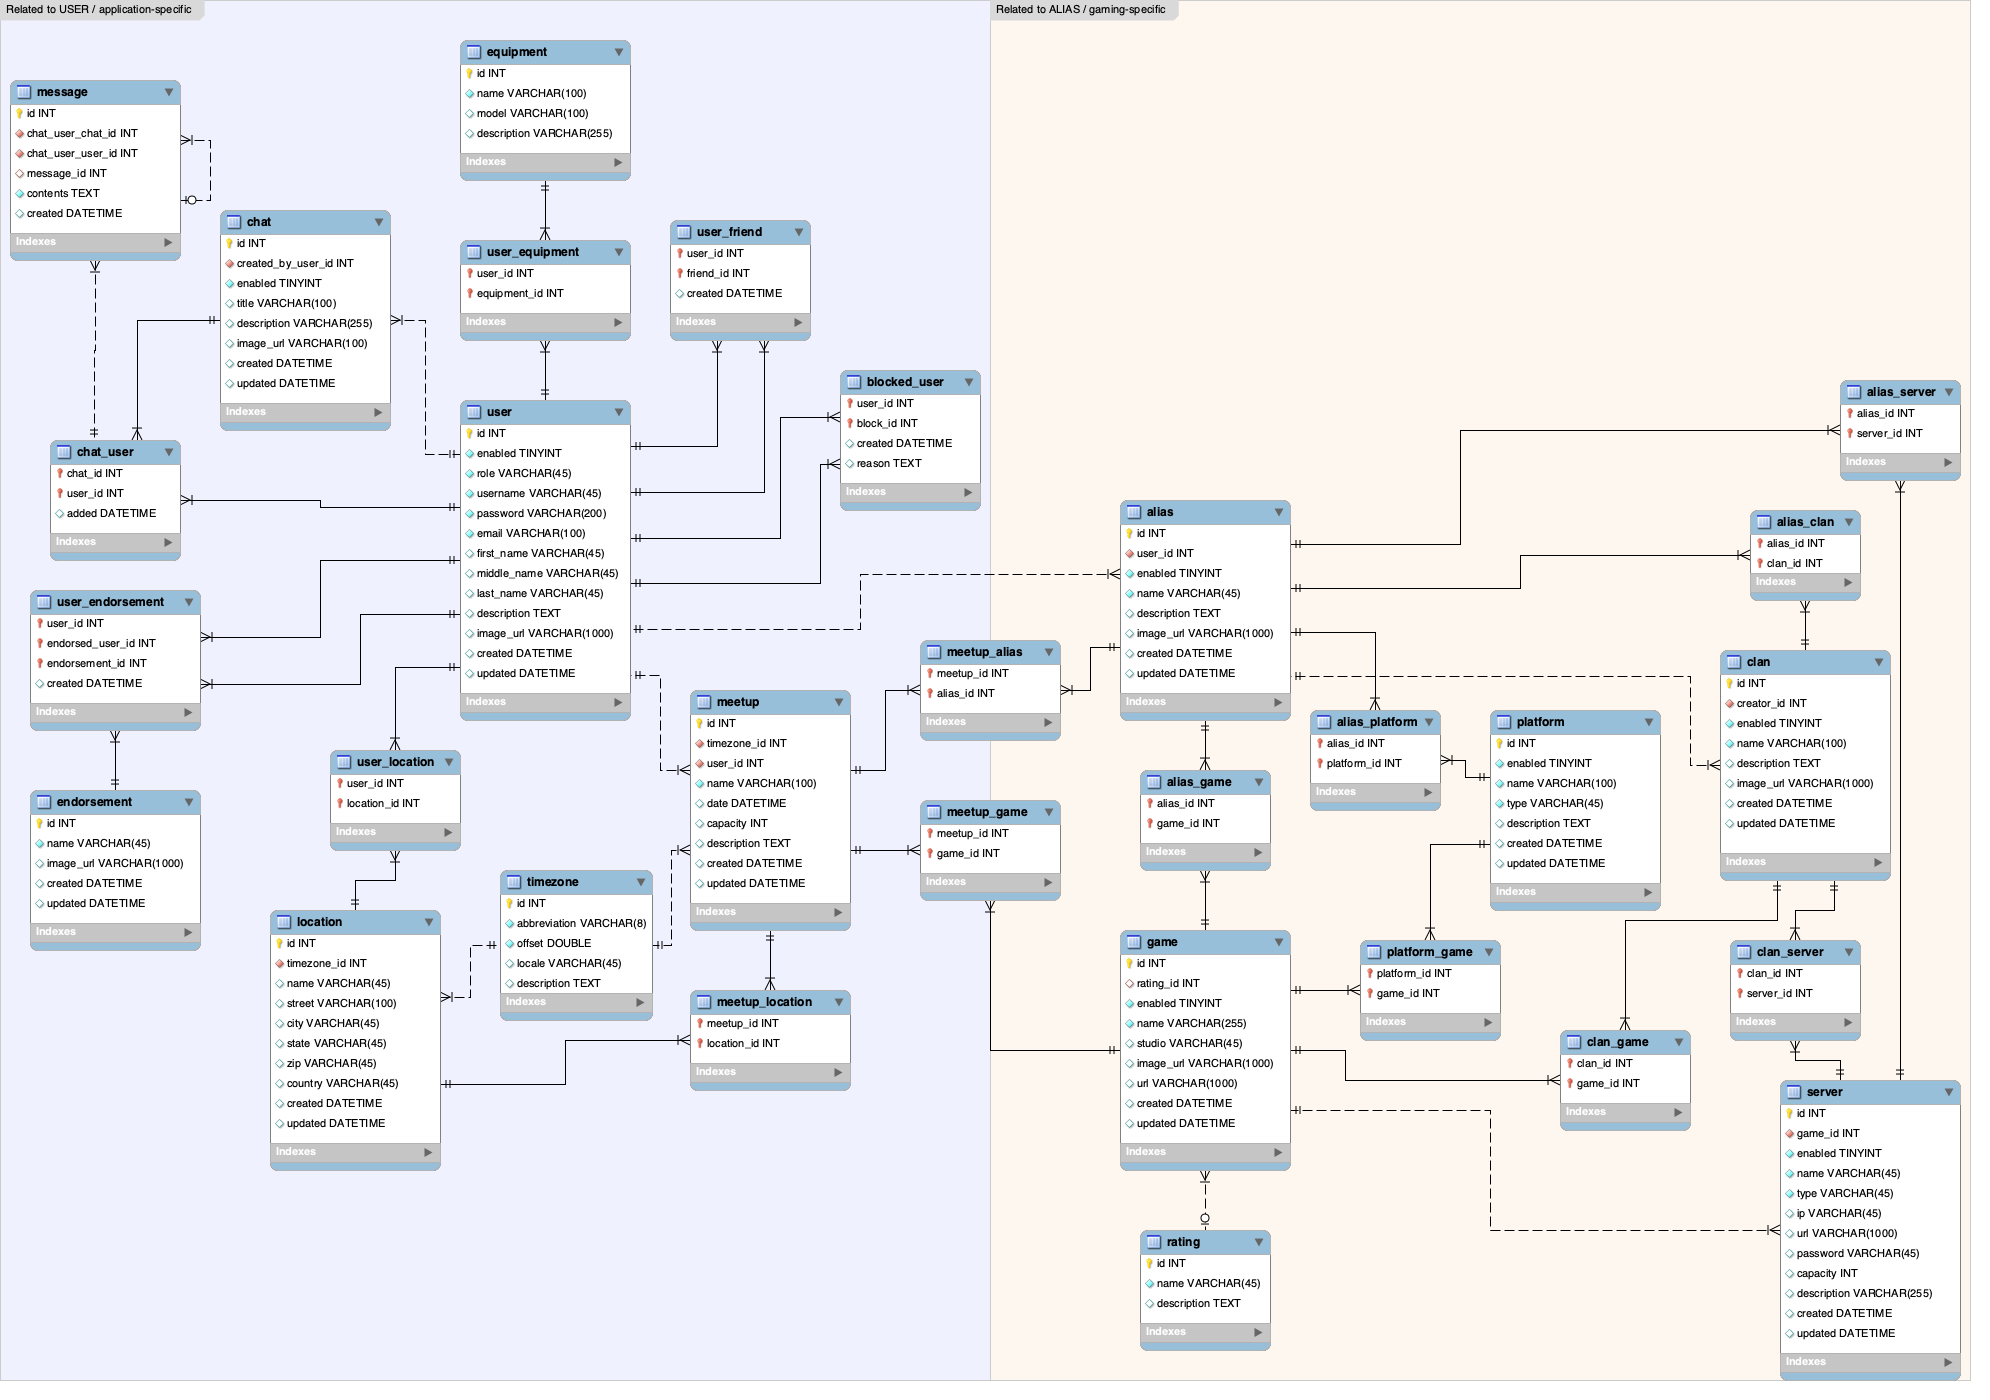
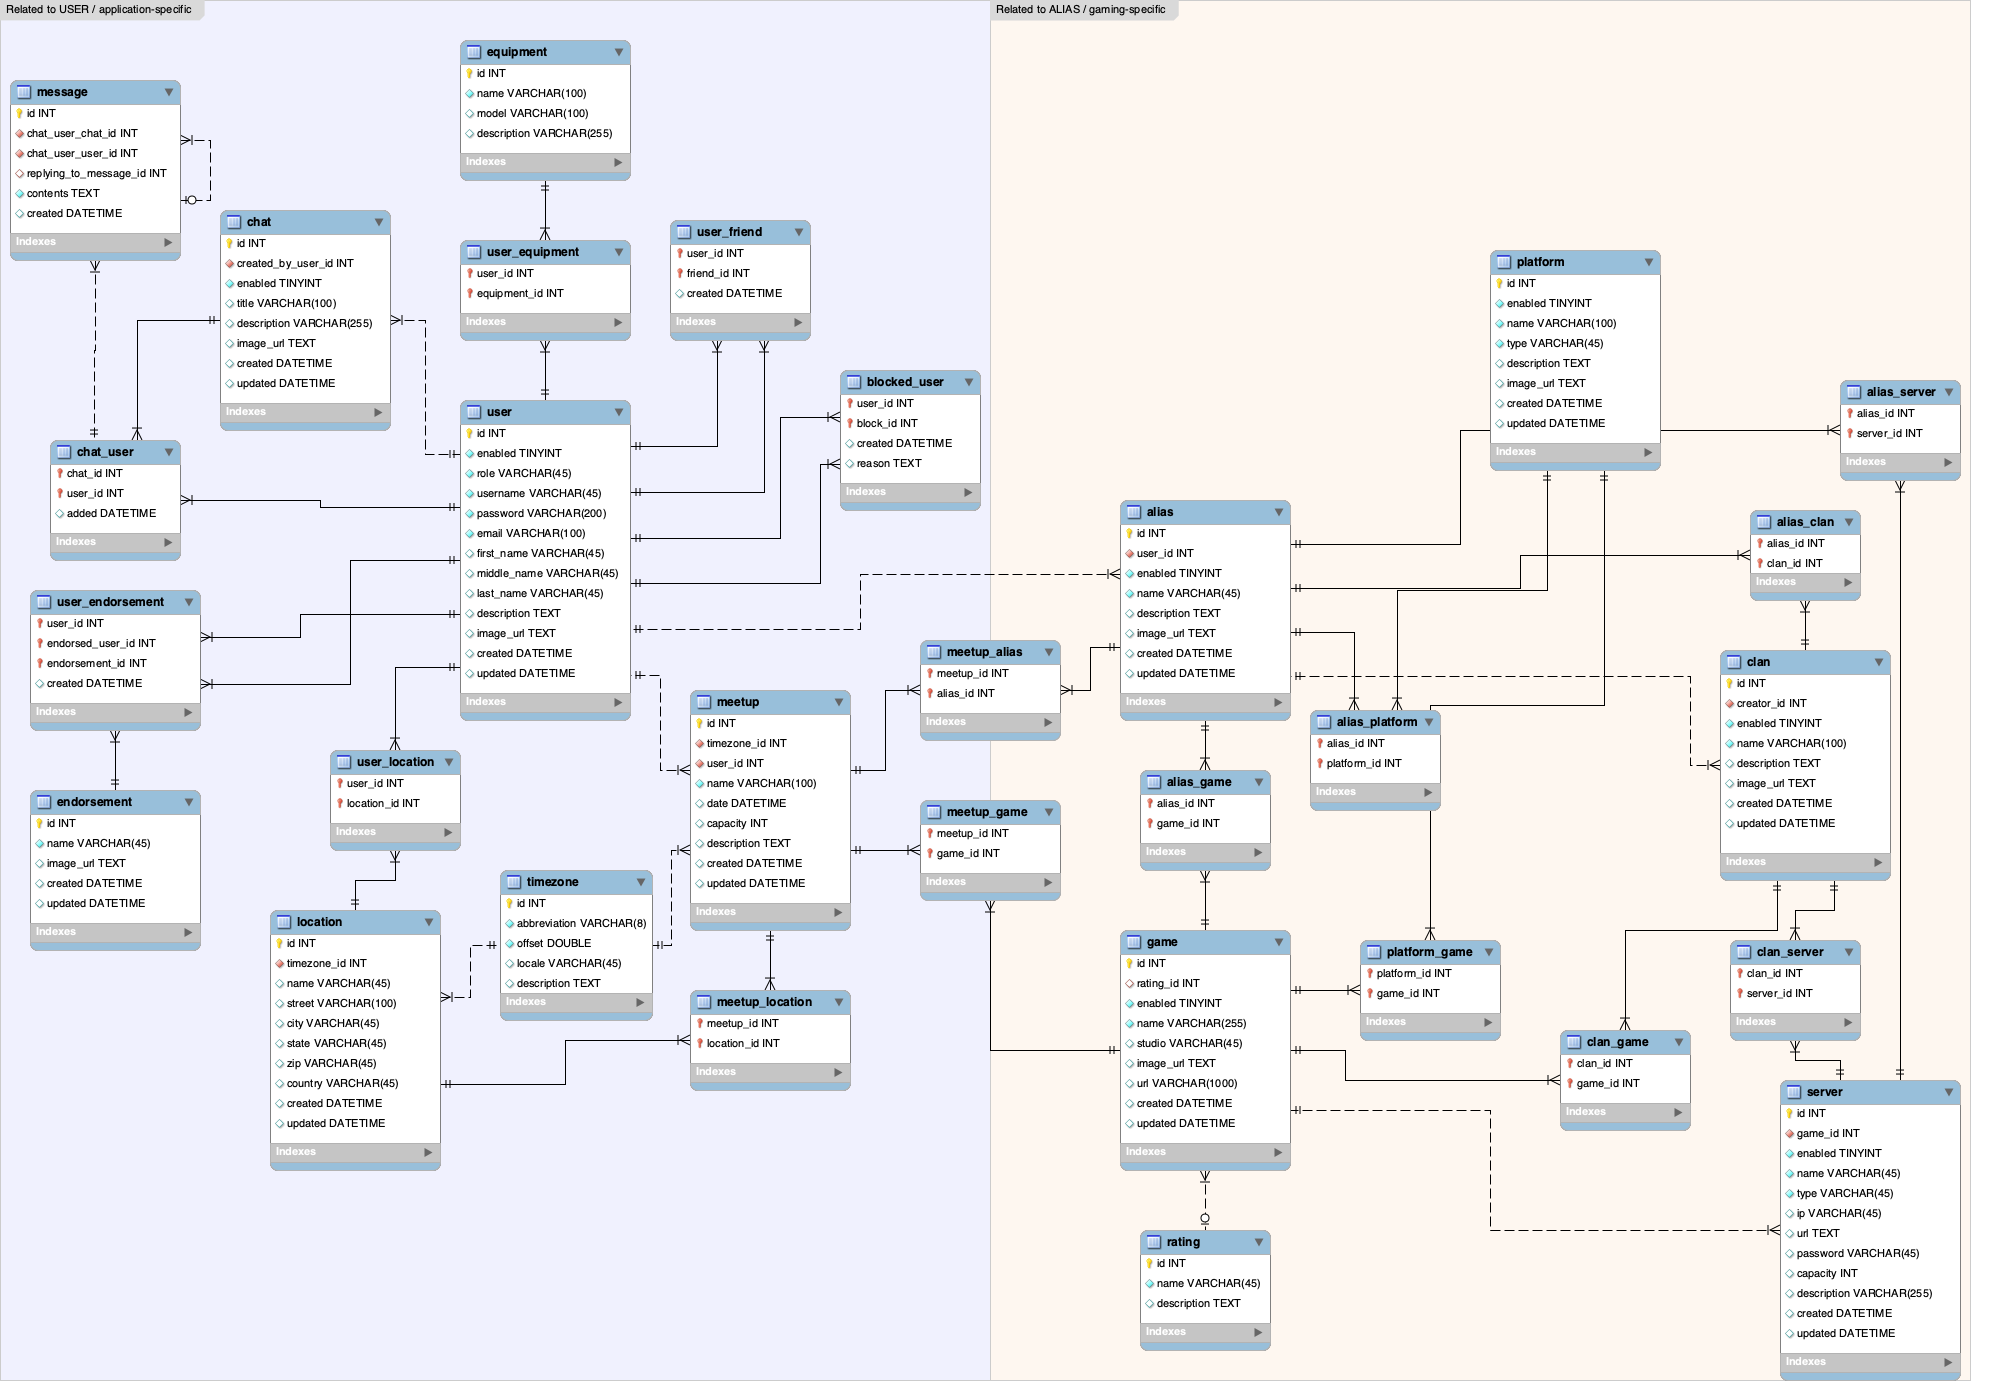
first commit on nathan branch

diff --git a/JPAGamingHub/src/test/java/com/skilldistillery/gaminghub/entities/MessageTest.java b/JPAGamingHub/src/test/java/com/skilldistillery/gaminghub/entities/MessageTest.java
@@ -1,0 +1,62 @@
+package com.skilldistillery.gaminghub.entities;
+
+import static org.junit.jupiter.api.Assertions.assertEquals;
+import static org.junit.jupiter.api.Assertions.assertNotNull;
+
+import javax.persistence.EntityManager;
+import javax.persistence.EntityManagerFactory;
+import javax.persistence.Persistence;
+
+import org.junit.jupiter.api.AfterAll;
+import org.junit.jupiter.api.AfterEach;
+import org.junit.jupiter.api.BeforeAll;
+import org.junit.jupiter.api.BeforeEach;
+import org.junit.jupiter.api.DisplayName;
+import org.junit.jupiter.api.Test;
+
+class MessageTest {
+	
+	private static EntityManagerFactory emf;
+	private EntityManager em;
+	private Message message;
+
+	@BeforeAll
+	static void setUpBeforeClass() throws Exception {
+		emf = Persistence.createEntityManagerFactory("JPAGamingHub");
+	}
+
+	@AfterAll
+	static void tearDownAfterClass() throws Exception {
+		emf.close();
+	}
+
+	@BeforeEach
+	void setUp() throws Exception {
+		em = emf.createEntityManager();
+		message = em.find(Message.class, 1);
+	}
+
+	@AfterEach
+	void tearDown() throws Exception {
+		em.close();
+	}
+
+	@Test
+	@DisplayName("Message mapping")
+	void test_message_mapping() {
+		
+//		SELECT * FROM message WHERE id=1;
+//		+----+-------------------+-------------------+------------------------+-----------------+---------------------+
+//		| id | chat_user_chat_id | chat_user_user_id | replying_to_message_id | contents        | created             |
+//		+----+-------------------+-------------------+------------------------+-----------------+---------------------+
+//		|  1 |                 1 |                 1 |                   NULL | Hello to User 2 | 2022-05-25 15:00:00 |
+//		+----+-------------------+-------------------+------------------------+-----------------+---------------------+
+		
+		assertNotNull(message);
+		assertNotNull(message.getContents());
+		assertEquals("Hello to User 2", message.getContents());
+		
+	}
+	
+
+}

diff --git a/JPAGamingHub/src/main/java/com/skilldistillery/gaminghub/entities/Message.java b/JPAGamingHub/src/main/java/com/skilldistillery/gaminghub/entities/Message.java
@@ -8,7 +8,7 @@ import javax.persistence.GeneratedValue;
 import javax.persistence.GenerationType;
 import javax.persistence.Id;
 import javax.persistence.JoinColumn;
-import javax.persistence.ManyToOne;
+import javax.persistence.OneToOne;
 import javax.persistence.Table;
 
 @Entity
@@ -18,19 +18,81 @@ public class Message {
 	@Id
 	@GeneratedValue(strategy = GenerationType.IDENTITY)
 	private int id;
-	
+
 	// chat_user_chat
 	// chat_user_user
 
 	private String contents;
 	private LocalDateTime created;
 
-	@ManyToOne
-	@JoinColumn(name = "chat_id")
-	private Chat chat;
+	@OneToOne
+	@JoinColumn(name = "replying_to_message_id")
+	private Message replyingToMessage;
 
 	public Message() {
 		super();
+	}
+
+	public int getId() {
+		return id;
+	}
+
+	public void setId(int id) {
+		this.id = id;
+	}
+
+	public String getContents() {
+		return contents;
+	}
+
+	public void setContents(String contents) {
+		this.contents = contents;
+	}
+
+	public LocalDateTime getCreated() {
+		return created;
+	}
+
+	public void setCreated(LocalDateTime created) {
+		this.created = created;
+	}
+
+	public Message getReplyingToMessage() {
+		return replyingToMessage;
+	}
+
+	public void setReplyingToMessage(Message replyingToMessage) {
+		this.replyingToMessage = replyingToMessage;
+	}
+
+	@Override
+	public int hashCode() {
+		return Objects.hash(id);
+	}
+
+	@Override
+	public boolean equals(Object obj) {
+		if (this == obj)
+			return true;
+		if (obj == null)
+			return false;
+		if (getClass() != obj.getClass())
+			return false;
+		Message other = (Message) obj;
+		return id == other.id;
+	}
+
+	@Override
+	public String toString() {
+		StringBuilder builder = new StringBuilder();
+		builder.append("Message [id=");
+		builder.append(id);
+		builder.append(", contents=");
+		builder.append(contents);
+		builder.append(", created=");
+		builder.append(created);
+		builder.append("]");
+		return builder.toString();
 	}
 
 }
